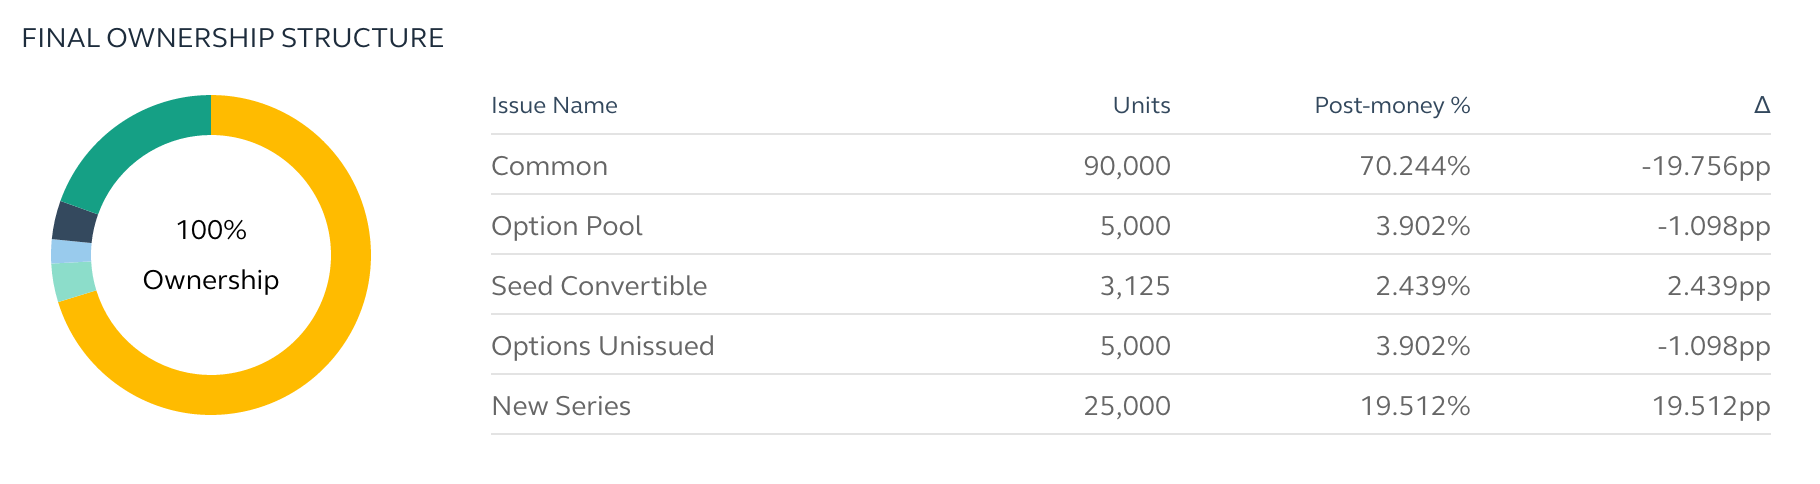
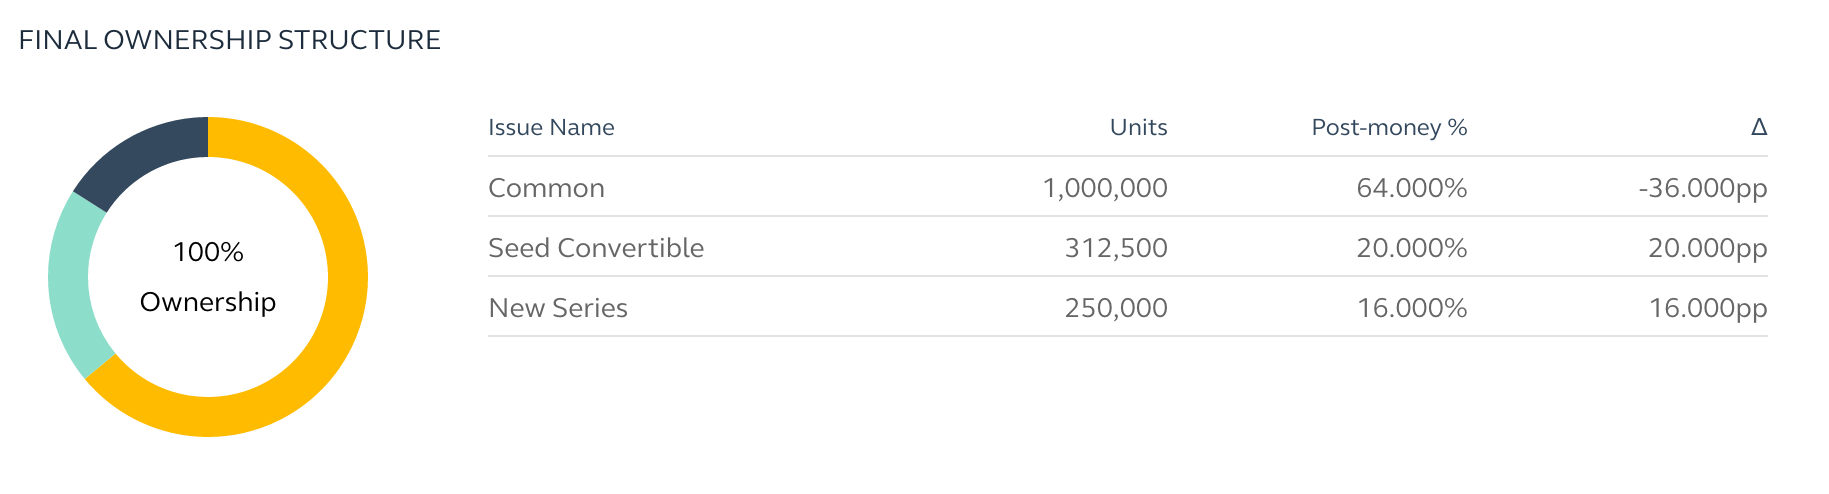
edits and added gitignore

diff --git a/_posts/2015-11-13-pre-post-notes.md b/_posts/2015-11-13-pre-post-notes.md
@@ -4,7 +4,7 @@ title: "Converting notes in pre vs post money"
 date: 2015-11-13
 author: robert
 category: startup-math
-published: false
+published: true
 excerpt: "Who gets diluted and how much is your company is worth."
 ---
 
@@ -25,19 +25,18 @@ This problem really boils down to who gets diluted and how much the company is w
 
 <h2 style="text-align: left">A concrete example</h2>
 
-I hope that makes sense in the abstract, but let's work through a simple example to show the effects. We'll use the same basic cap table we used in [our earlier post on round modeling](http://blog.sharewave.com/july-10-round-modeling/) so if you've got any questions about the round model more generally do check that out first.
+I hope that makes sense in the abstract, but let's work through a simple example to show the effects. We'll use a very basic cap table with just common stock and one convertible round.
 
 <div class="example-block">
     <p>The company has just three securities:</p>
 
     <ul>
-        <li><span>Common</span> An Equity Series with 90,000 shares issued</li>
-        <li><span>Options</span> An options series with 10,000 authorized, 5,000 issued</li>
-        <li><span>Debt A</span> A Debt series with $100,000 invested at a 20% discount.</li>
+        <li><span>Common</span> An Equity Series with 1,000,000 shares issued</li>
+        <li><span>Debt A</span> A Debt series with $1,000,000 invested at a 20% discount.</li>
     </ul>
 
     <p>This company is doing a Series A of $1,000,000 at a pre-money valuation of $4,000,000.</p>
-    <img src="/images/initial-round.png">
+    <img src="/images/initial_prepostround.png">
 </div>
 
 <h2 style="text-align: left">Pre-money conversion</h2>
@@ -45,11 +44,11 @@ First let's look at the results if we go for a pre-money note conversion (also k
 
 <div class="example-block">
     <p>
-        We have one $100,000 note at a 20% discount. We take the discount: divide 100,000 by 0.8 giving us a note value of $125,000. This lowers the effective pre-money valuation to $3,875,000 and dividing that valuation by the number of outstanding shares we get a price per share of $38.75.
+        We have one $100,000 note at a 20% discount. We take the discount: divide 100,000 by 0.8 giving us a note value of $1,250,000. This lowers the effective pre-money valuation to $2,750,000 and dividing that valuation by the number of outstanding shares we get a price per share of $2.75.
     </p>
 
     <p>
-        The debt holder therefore gets 3,226 shares for their note and the new series investors get 25,806 shares for their $1M. As you can see below, the new series get their full 20% and all the dilution hits the stakeholders who existed prior to the new investment round.
+        The debt holder therefore gets 454,545 shares for their note and the new series investors get 363,636 shares for their $1M. As you can see below, the new series get their full 20% and all the dilution hits the stakeholders who existed prior to the new investment round.
     </p>
 
     <img src="/images/final_premoneyround.png">
@@ -60,15 +59,15 @@ Now let's do exactly the same thing except convert the note in post-money. One q
 
 <div class="example-block">
     <p>
-        The pre-money valuation is fixed, so the incoming investors purchase their shares at $40 each. This gives them 25,000 shares and 20% of the company.
+        The pre-money valuation is fixed, so the incoming investors purchase their shares at $4 each. This gives them 250,000 shares and 20% of the company.
     </p>
 
     <p>
-        However the notes then convert. They get the $40 price per share at a 20% discount, giving them 3,125 shares which dilutes all the existing stakeholders including the new series investors. However using this method the implied post-money valuation of the company is not $10M but $10.125M so even though the new series investors hold a smaller percentage of the company the implied value of their shares is the same.
+        However the notes then convert. They get the $4 price per share at a 20% discount, giving them 312,500 shares which dilutes all the existing stakeholders including the new series investors. However using this method the implied post-money valuation of the company is not $5M but $6.25M so even though the new series investors hold a smaller percentage of the company the implied value of their shares is the same.
     </p>
 
     <img src="/images/final_postmoneyround.png">
 </div>
 
 <br>
-As you can see, even with a relatively small convertible note this difference is not to be sniffed at. Given a much larger convertible note round the difference to all involved (especially the founders) can be very large indeed. This isn't a right/wrong issue, both conversions are totally valid, but it's definitely worth being aware of the impact before you sign your note agreement not when you're about to close your series A!
+This difference is not to be sniffed at. Given a much larger convertible note round, not all that unusual these days, the difference to all involved (especially the founders) can be very large indeed. This isn't a right/wrong issue, both conversions are totally valid, but it's definitely worth being aware of the impact before you sign your note agreement not when you're about to close your series A!
